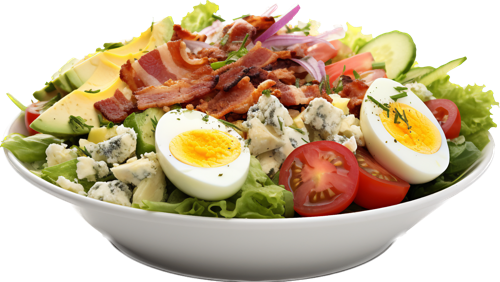
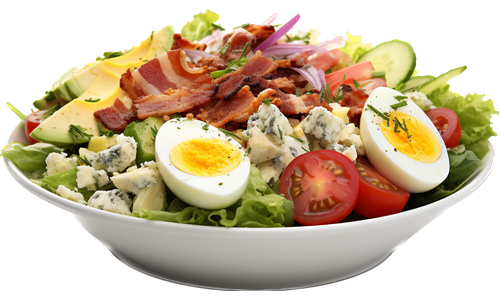
resize images and adjust description position

diff --git a/js/components/ObjectTile.js b/js/components/ObjectTile.js
@@ -75,6 +75,7 @@ class ObjectTile {
 
     const expandButton = document.createElement('a');
     expandButton.textContent = 'Description ...';
+    expandButton.classList.add('tile-description-button');
     expandButton.href = '##';
     expandButton.addEventListener('click', (event) => {
       event.preventDefault();

diff --git a/css/style.css b/css/style.css
@@ -264,6 +264,10 @@ button {
   justify-content: center; /* Zentriert den Inhalt horizontal */
   align-items: center; /* Zentriert den Inhalt vertikal */
 }
+.tile-description-button {
+  cursor: pointer;
+  margin-top: -5%;
+}
 
 .favourites-icon {
   position: absolute;

diff --git a/js/compress.py b/js/compress.py
@@ -1,7 +1,7 @@
 from PIL import Image
 import os
 
-def compress_images(source_dir, target_dir, max_size=(500, 500)):
+def compress_images(source_dir, target_dir, max_size=(500, 300)):
     files = os.listdir(source_dir)
     if not os.path.exists(target_dir):
         os.makedirs(target_dir)
@@ -9,11 +9,18 @@ def compress_images(source_dir, target_dir, max_size=(500, 500)):
         if file.endswith('.jpg') or file.endswith('.png'):
             image_path = os.path.join(source_dir, file)
             img = Image.open(image_path)
-            # Ändern Sie die Größe des Bildes, behalten Sie dabei das Seitenverhältnis bei
-            img.thumbnail(max_size)
+            img.thumbnail(max_size, Image.ANTIALIAS)
+            # Zentrieren Sie das Bild im Zielbereich
+            width, height = img.size
+            x = (max_size[0] - width) // 2
+            y = (max_size[1] - height) // 2
+            # Erstellen Sie ein neues Bild mit Transparenz (Alpha-Kanal)
+            new_img = Image.new('RGBA', max_size)
+            new_img.paste(img, (x, y))
             # Speichern Sie das Bild im Zielverzeichnis
             target_path = os.path.join(target_dir, file)
-            img.save(target_path)
+            # Speichern Sie das Bild im PNG-Format, um die Transparenz zu erhalten
+            new_img.save(target_path, "PNG")
 
 # Verwenden Sie die Funktion
 compress_images('./assets', './assets/compressed')
